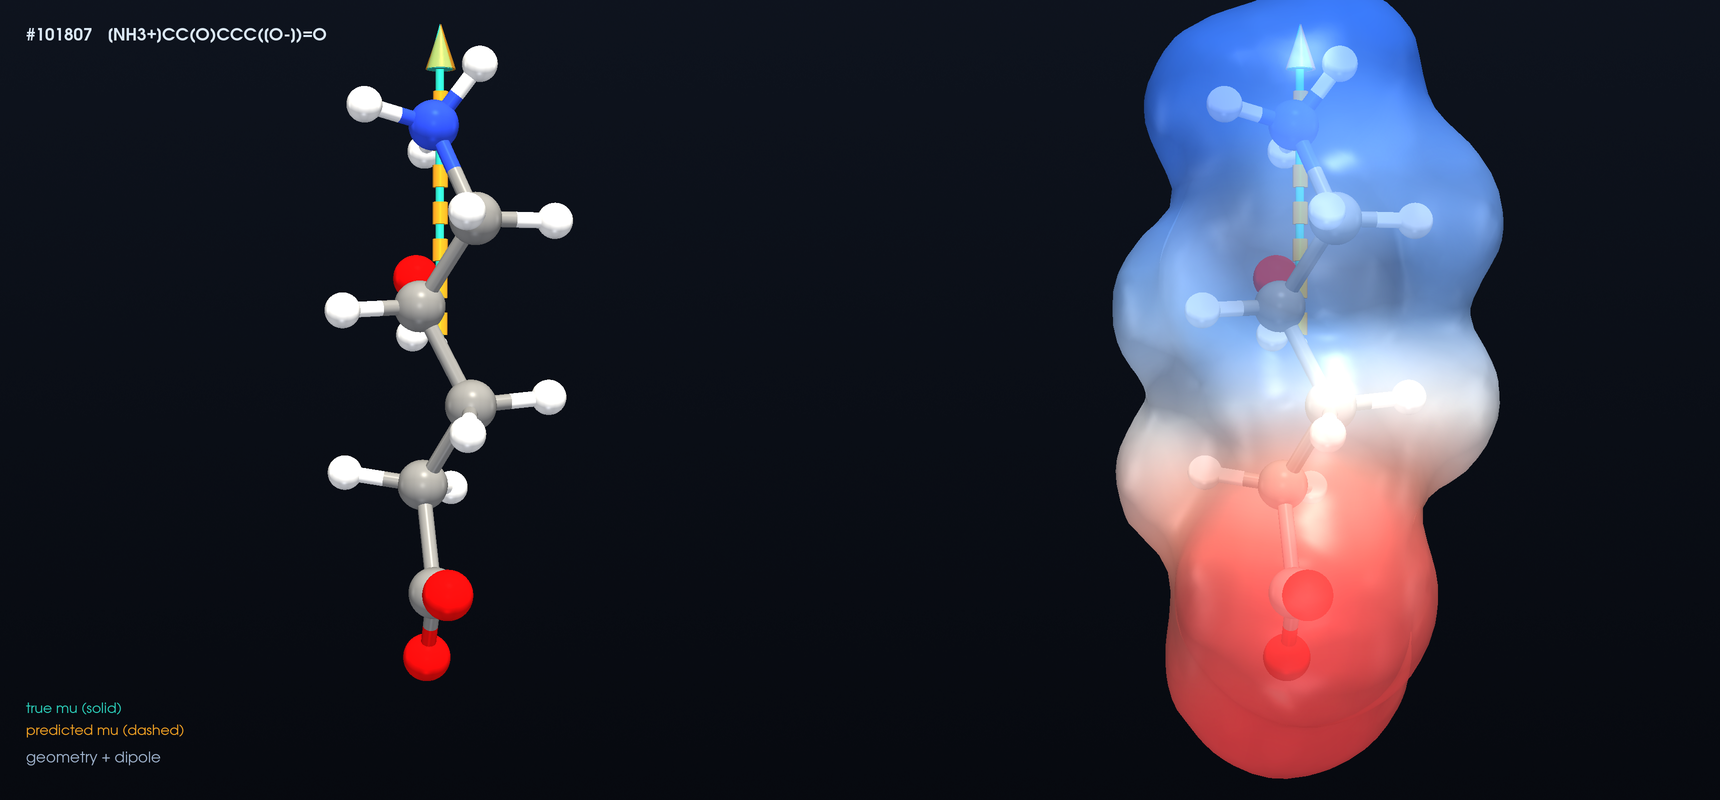
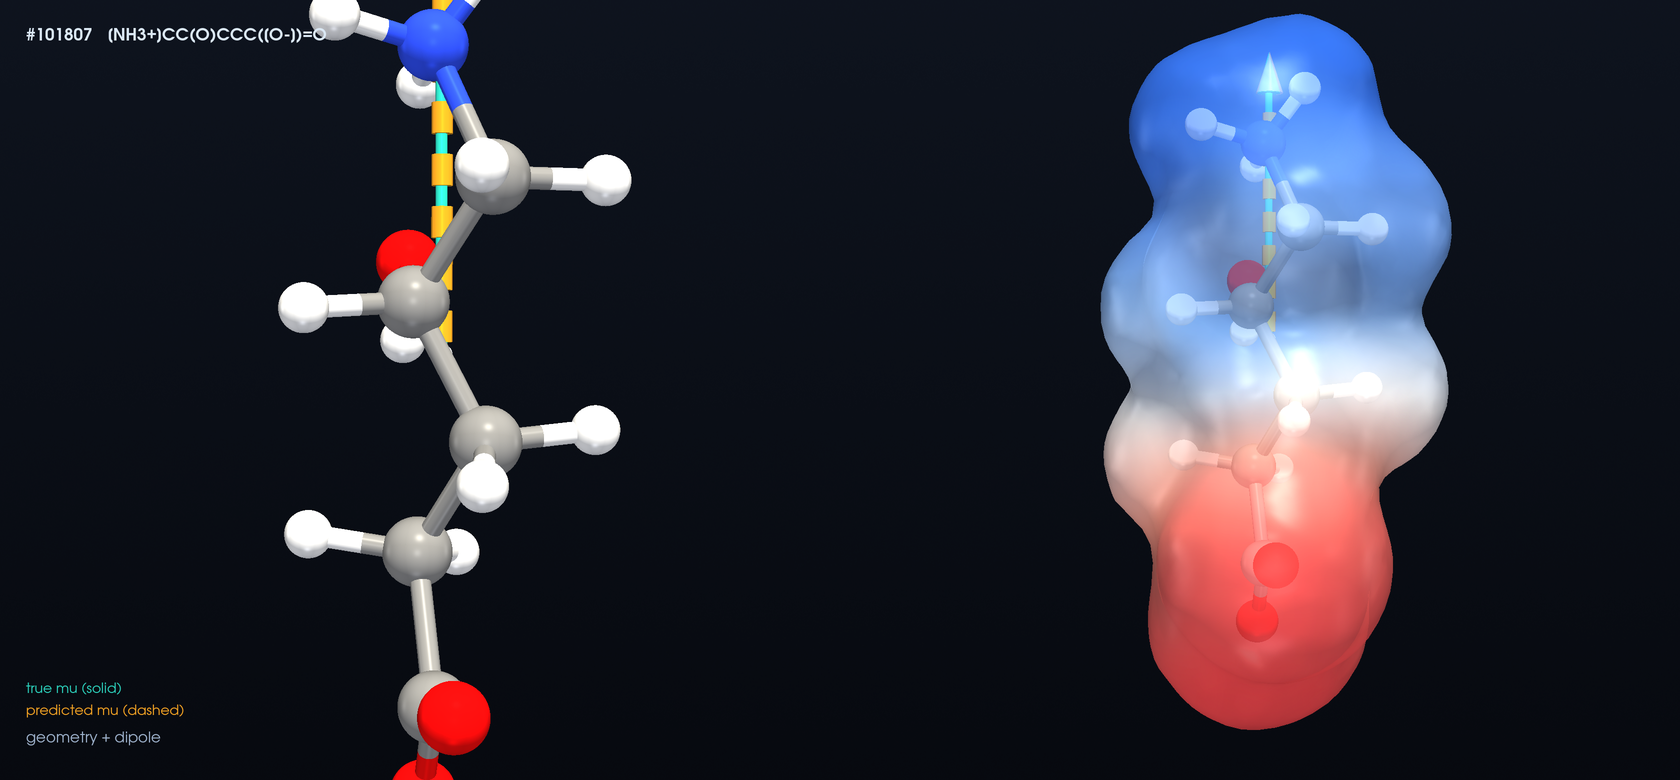
Frame each render panel to its own contents

diff --git a/render_hero.py b/render_hero.py
@@ -115,7 +115,7 @@ def dipole_actors(center, dtrue, dpred):
     return acts
 
 
-def aim_camera(ren, center, mu, bounds, zoom=1.3):
+def aim_camera(ren, center, mu, zoom=1.3):
     """Look at the molecule from a direction perpendicular to the dipole,
     with the dipole running up the frame."""
     u = np.asarray(mu, float) / np.linalg.norm(mu)
@@ -125,14 +125,14 @@ def aim_camera(ren, center, mu, bounds, zoom=1.3):
     n = np.cross(u, t); n /= np.linalg.norm(n)
     cam = ren.GetActiveCamera()
     cam.SetViewUp(*u); cam.SetFocalPoint(*center); cam.SetPosition(*(center + n * 12.0))
-    ren.ResetCamera(bounds)
+    ren.ResetCamera()
     cam.Zoom(zoom)
     return cam
 
 
 def main():
     mid = sys.argv[1] if len(sys.argv) > 1 else '101807'
-    W, H, SS = 1720, 800, 2
+    W, H, SS = 1680, 780, 2
     html = open('index.html').read()
     MOLS = json.loads(re.search(r'const MOLS = (\[.*?\]);', html, re.S).group(1))
     PRED = json.loads(re.search(r'const PRED\s*=\s*(\{.*?\})\s*;', html, re.S).group(1))
@@ -197,9 +197,8 @@ def main():
         renR.AddActor(a)
     renR.AddActor(dact)
 
-    b = surf.GetBounds()
-    aim_camera(renL, center, dtrue, b)
-    renR.SetActiveCamera(renL.GetActiveCamera())
+    aim_camera(renL, center, dtrue, 1.42)
+    aim_camera(renR, center, dtrue, 1.20)
 
     f = SS
     renL.AddActor2D(label('geometry + dipole', 26 * f, 34 * f, 15 * f, (0.62, 0.70, 0.80)))